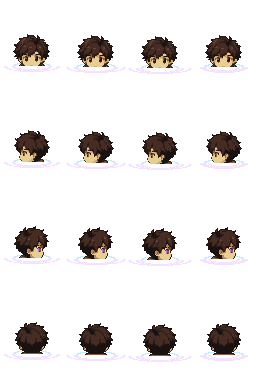
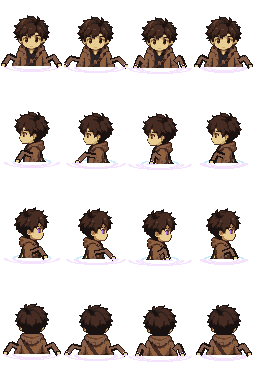
DRAFT cal swim v2: waist-deep (torso + stroke arms), solid ripple rings, old-vs-new contact sheet

diff --git a/kilumen/tools/character_models/gullhaven/swim/run.py b/kilumen/tools/character_models/gullhaven/swim/run.py
@@ -1,6 +1,6 @@
 import sys; sys.path.insert(0,'.'); from swim import *
 N='/workspace/wt_cm_masters/kilumen/art/characters/pixel/npcs/'
-S={'cal':('/workspace/wt_seaport/kilumen/art/characters/pixel/humans/cal/overworld/cal_chibi_sheet.png',0.36)}
+S={'cal':('/workspace/wt_seaport/kilumen/art/characters/pixel/humans/cal/overworld/cal_chibi_sheet.png',0.58)}
 for x in 'abcde': S['tr_swimmer_gullhaven_'+x]=(N+f'tr_swimmer_gullhaven_{x}/overworld/tr_swimmer_gullhaven_{x}_chibi_sheet.png',0.34)
 os.makedirs('out',exist_ok=True)
 for k,(p,kp) in S.items(): build(p,kp).save(f'out/{k}_swim_sheet.png')

diff --git a/kilumen/tools/character_models/gullhaven/swim/swim.py b/kilumen/tools/character_models/gullhaven/swim/swim.py
@@ -47,7 +47,7 @@ def build(sheet,keep,player=False):
             xs=np.nonzero(f[:cut,:,3].any(0))[0]; sl,sr=xs.min(),xs.max()
             if PLAYER:
                 for rr in [(14+2*c)%10+16, (14+2*c)%10+24]: ring(d,cx,wl,rr,3 if rr<22 else 5,FOAM,'front')
-            else:
+            if True:
                 sp=[12,15,8,11][c]; ey=shy-[3,2,4,3][c]
                 if dn in('down','up'):
                     for sgn,sx in ((-1,sl+3),(1,sr-3)):

diff --git a/kilumen/shots/character_models_draft/gullhaven/REPOINT.md b/kilumen/shots/character_models_draft/gullhaven/REPOINT.md
@@ -132,7 +132,7 @@ Example entries:
 
 ## Swim animations (DRAFT, added Oct 30 2026)
 
-Files: `npcs/tr_swimmer_gullhaven_{a..e}/swim/` and `humans/cal/swim/`. Each folder has `<id>_swim_sheet{,_2x,_3x}.png` (256x384 at 1x: 4 cols = stroke frames, 4 rows = down/left/right/up, 64x96 cells like the walk sheet), `<id>_swim.json` and per-direction 2x gifs. The body is already cut at the waterline (y=66 in the cell, the same height as `SWIM.LINE` 30 in renderer.js), with bob [0,1,2,1] and a solid-pixel ripple ring baked in. Swimmers: head, shoulders and spread breaststroke arms. Player: sits low, no arms, two white rings.
+Files: `npcs/tr_swimmer_gullhaven_{a..e}/swim/` and `humans/cal/swim/`. Each folder has `<id>_swim_sheet{,_2x,_3x}.png` (256x384 at 1x: 4 cols = stroke frames, 4 rows = down/left/right/up, 64x96 cells like the walk sheet), `<id>_swim.json` and per-direction 2x gifs. The body is already cut at the waterline (y=66 in the cell, the same height as `SWIM.LINE` 30 in renderer.js), with bob [0,1,2,1] and a solid-pixel ripple ring baked in. Swimmers: head, shoulders and spread breaststroke arms. Player (v2, Oct 30): waist-deep: head, shoulders, upper torso and stroke arms above the water, two white solid rings; waterline unchanged at y=66.
 
 Existing mechanism: `dev/seaport` has only the `cal_tideglide` sheet (riding a creature). The swim drawing is in **uncommitted** edits in `/workspace/wt_seaport/kilumen/src/overworld/renderer.js` (`_swim = onWater(...)` and `swimmer()`). Those edits crop the walk sheet at runtime and draw a translucent body band and rgba foam, which breaks the binary-alpha / no-haze rules. I didn't touch them. Suggested wiring:
 1. In the sprite-map entries for `gullhaven_sea.gullhaven_sea_swimmer_*`, add `"swim_sheet": "npcs/<id>/swim/<id>_swim_sheet.png"` (+ `_2x`/`_3x`). Add `playerSheets.swim` in `src/config.js` pointing at `humans/cal/swim/cal_swim_sheet*.png`.
